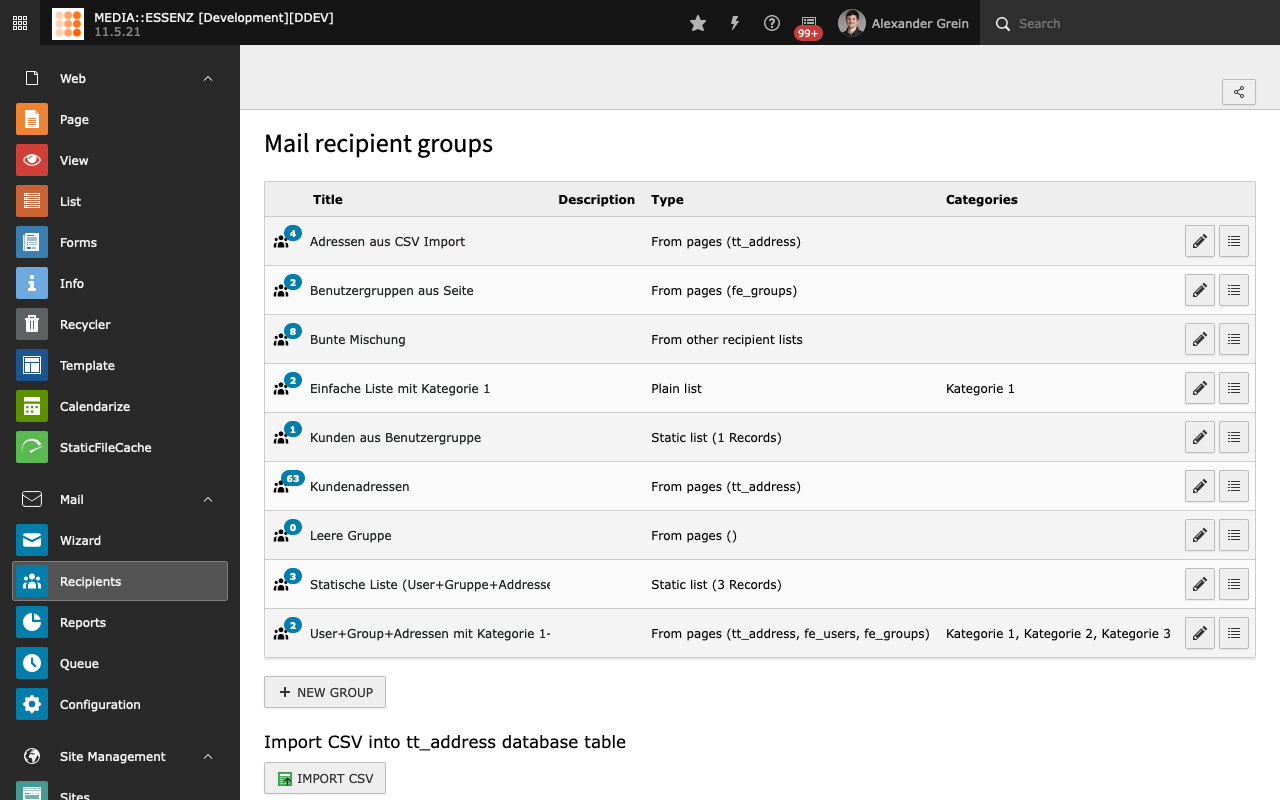
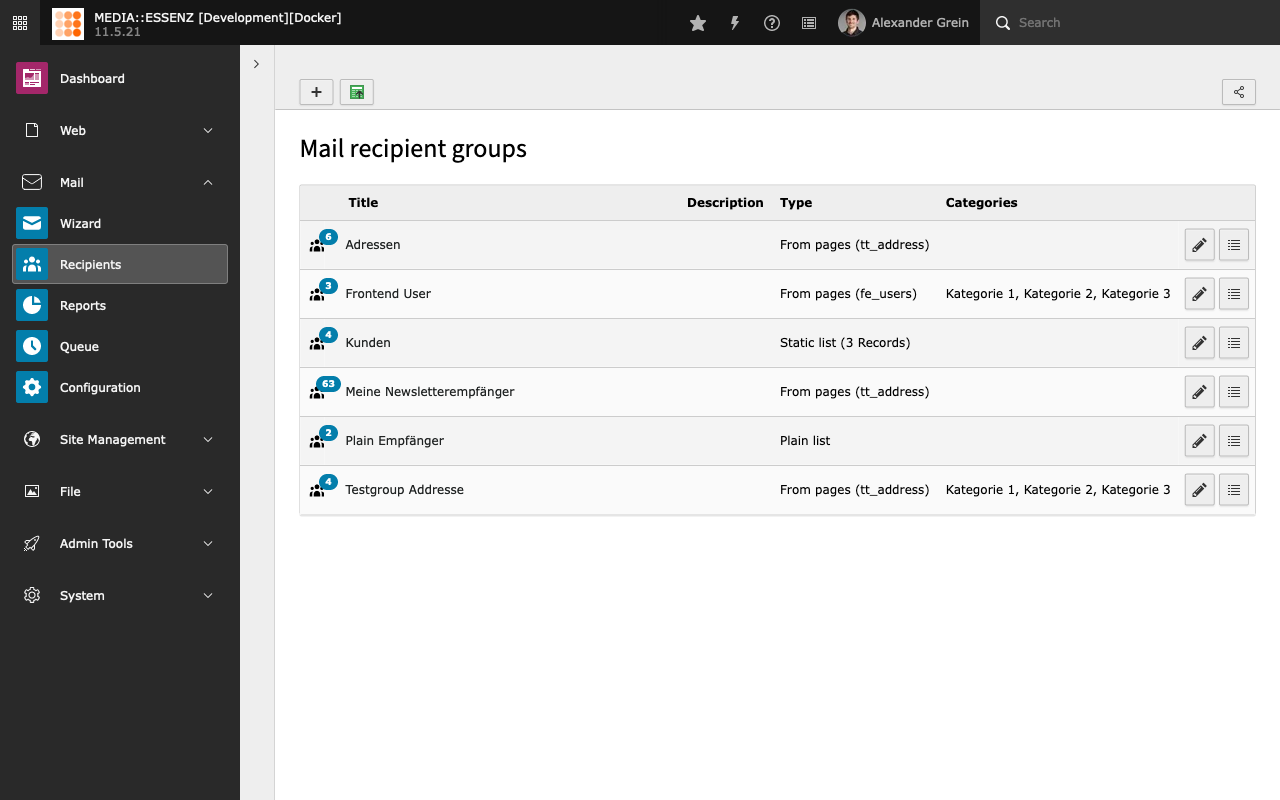
Change recipient list screenshot in documentation; set version to 1.0.14

diff --git a/ext_emconf.php b/ext_emconf.php
@@ -4,7 +4,7 @@ $EM_CONF[$_EXTKEY] = [
     'title' => 'Mail',
     'description' => 'Mail System for TYPO3',
     'category' => 'plugin',
-    'version' => '1.0.13',
+    'version' => '1.0.14',
     'state' => 'stable',
     'constraints' => [
         'depends' => [
